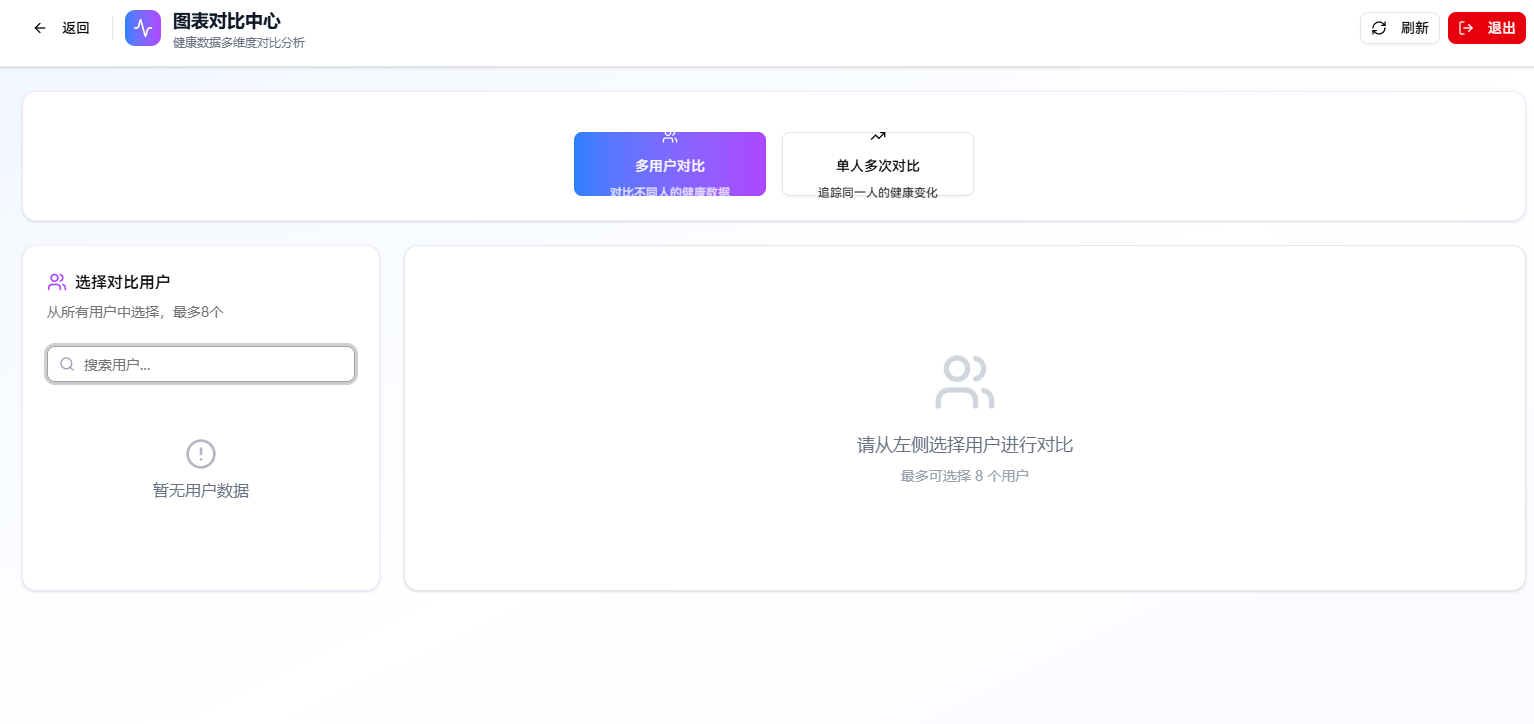
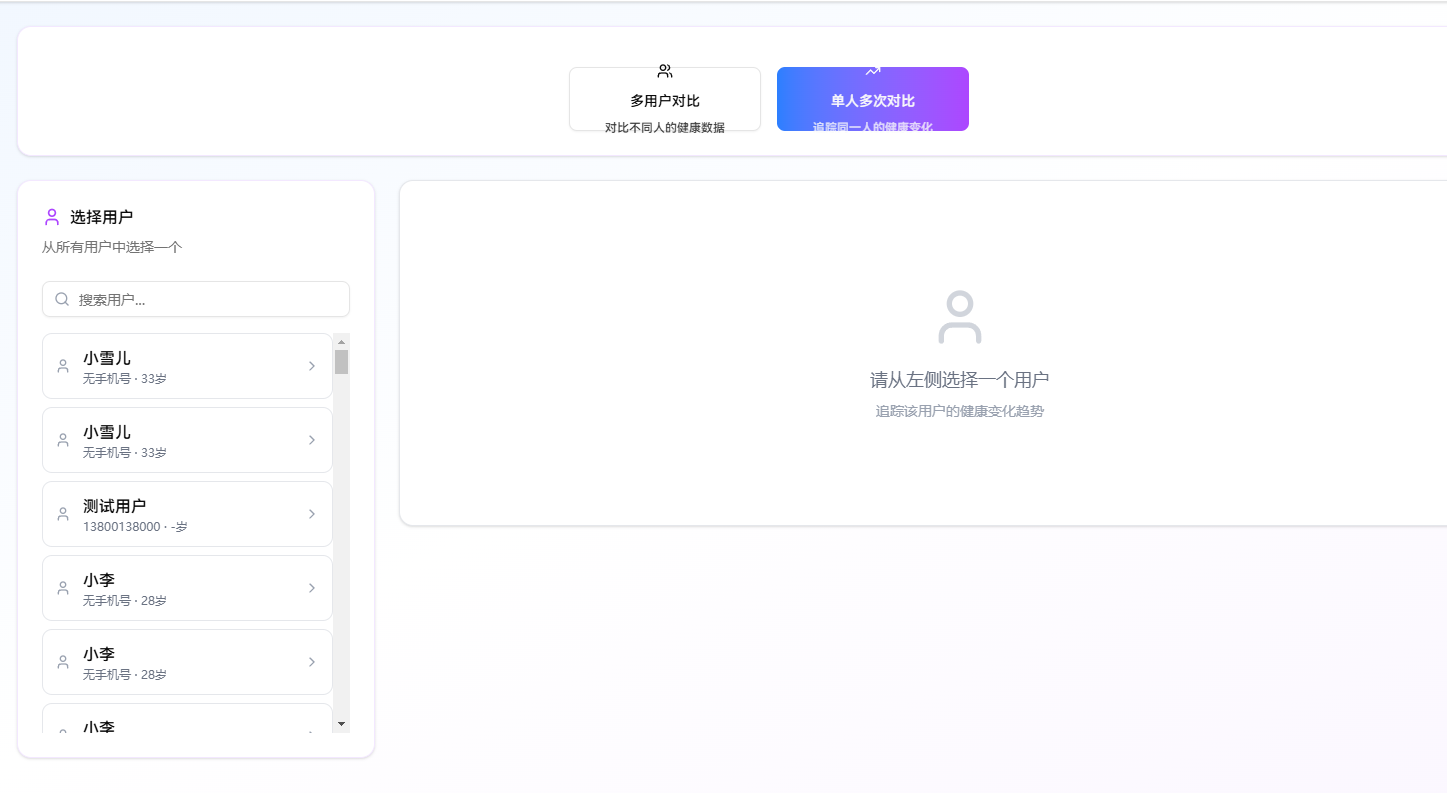
feat: 优化图表对比页面的用户区分标识和交互体验
1. 用户列表添加区分标识：显示"手机后4位·ID后4位"
2. 用户列表显示检测次数和最近检测时间
3. 记录列表优化：显示详细时间、健康分颜色标识、主要健康要素
4. 右侧空状态添加操作提示和快速选择按钮

diff --git a/src/app/admin/charts/page.tsx b/src/app/admin/charts/page.tsx
@@ -620,6 +620,11 @@ export default function ChartsComparePage() {
                           filteredUsers.map((u) => {
                             const isSelected = selectedUsers.includes(u.user.id);
                             const selectedIndex = selectedUsers.indexOf(u.user.id);
+                            // 生成用户区分标识：手机号后4位 + ID后4位
+                            const phoneSuffix = u.user.phone ? u.user.phone.slice(-4) : '无手机';
+                            const idSuffix = u.user.id.slice(-4);
+                            const recordCount = u.healthAnalysis?.length || 0;
+                            
                             return (
                               <div
                                 key={u.user.id}
@@ -631,7 +636,7 @@ export default function ChartsComparePage() {
                                 onClick={() => toggleUserSelection(u.user.id)}
                               >
                                 <div 
-                                  className={`w-4 h-4 rounded-full border-2 flex items-center justify-center ${
+                                  className={`w-4 h-4 rounded-full border-2 flex items-center justify-center flex-shrink-0 ${
                                     isSelected ? 'border-purple-500 bg-purple-500' : 'border-gray-300'
                                   }`}
                                 >
@@ -646,9 +651,14 @@ export default function ChartsComparePage() {
                                   />
                                 )}
                                 <div className="flex-1 min-w-0">
-                                  <p className="font-medium truncate">{u.user.name || '未命名'}</p>
+                                  <div className="flex items-center gap-2">
+                                    <p className="font-medium truncate">{u.user.name || '未命名'}</p>
+                                    <span className="text-xs text-gray-400 bg-gray-100 px-1.5 py-0.5 rounded flex-shrink-0">
+                                      {phoneSuffix}·{idSuffix}
+                                    </span>
+                                  </div>
                                   <p className="text-xs text-gray-500 truncate">
-                                    {u.user.phone || '无手机号'} · {u.user.age || '-'}岁
+                                    {u.user.age || '-'}岁{recordCount > 0 ? ` · ${recordCount}次检测` : ''}
                                   </p>
                                 </div>
                               </div>
@@ -696,22 +706,50 @@ export default function ChartsComparePage() {
                                 暂无用户数据
                               </div>
                             ) : (
-                              filteredUsers.map((u) => (
-                                <div
-                                  key={u.user.id}
-                                  className="flex items-center gap-3 p-3 rounded-lg border border-gray-200 hover:border-purple-200 hover:bg-gray-50 cursor-pointer transition-all"
-                                  onClick={() => selectSingleUser(u.user.id)}
-                                >
-                                  <User className="h-4 w-4 text-gray-400" />
-                                  <div className="flex-1 min-w-0">
-                                    <p className="font-medium truncate">{u.user.name || '未命名'}</p>
-                                    <p className="text-xs text-gray-500 truncate">
-                                      {u.user.phone || '无手机号'} · {u.user.age || '-'}岁
-                                    </p>
+                              filteredUsers.map((u) => {
+                                // 生成用户区分标识：手机号后4位 + ID后4位
+                                const phoneSuffix = u.user.phone ? u.user.phone.slice(-4) : '无手机';
+                                const idSuffix = u.user.id.slice(-4);
+                                const recordCount = u.healthAnalysis?.length || 0;
+                                const latestAnalysis = u.healthAnalysis?.[0];
+                                const latestDate = latestAnalysis?.analyzedAt 
+                                  ? new Date(latestAnalysis.analyzedAt).toLocaleDateString('zh-CN', { month: 'short', day: 'numeric' })
+                                  : null;
+                                
+                                return (
+                                  <div
+                                    key={u.user.id}
+                                    className="flex items-center gap-3 p-3 rounded-lg border border-gray-200 hover:border-purple-200 hover:bg-gray-50 cursor-pointer transition-all"
+                                    onClick={() => selectSingleUser(u.user.id)}
+                                  >
+                                    <User className="h-4 w-4 text-gray-400 flex-shrink-0" />
+                                    <div className="flex-1 min-w-0">
+                                      <div className="flex items-center gap-2">
+                                        <p className="font-medium truncate">{u.user.name || '未命名'}</p>
+                                        <span className="text-xs text-gray-400 bg-gray-100 px-1.5 py-0.5 rounded flex-shrink-0">
+                                          {phoneSuffix}·{idSuffix}
+                                        </span>
+                                      </div>
+                                      <div className="flex items-center gap-2 text-xs text-gray-500">
+                                        <span>{u.user.age || '-'}岁</span>
+                                        {recordCount > 0 && (
+                                          <>
+                                            <span className="text-gray-300">|</span>
+                                            <span className="text-purple-600 font-medium">{recordCount}次检测</span>
+                                          </>
+                                        )}
+                                        {latestDate && (
+                                          <>
+                                            <span className="text-gray-300">|</span>
+                                            <span>最近: {latestDate}</span>
+                                          </>
+                                        )}
+                                      </div>
+                                    </div>
+                                    <ChevronRight className="h-4 w-4 text-gray-400 flex-shrink-0" />
                                   </div>
-                                  <ChevronRight className="h-4 w-4 text-gray-400" />
-                                </div>
-                              ))
+                                );
+                              })
                             )}
                           </div>
                         </>
@@ -721,9 +759,24 @@ export default function ChartsComparePage() {
                           <div className="mb-4 p-3 bg-purple-50 rounded-lg">
                             <div className="flex items-center justify-between">
                               <div>
-                                <p className="font-medium">{getUserName(selectedSingleUser)}</p>
-                                <p className="text-xs text-gray-500">
-                                  共 {singleUserData?.healthAnalysis?.length || 0} 条检测记录
+                                <div className="flex items-center gap-2">
+                                  <p className="font-medium">{getUserName(selectedSingleUser)}</p>
+                                  {(() => {
+                                    const user = users.find(u => u.user.id === selectedSingleUser)?.user;
+                                    if (user) {
+                                      const phoneSuffix = user.phone ? user.phone.slice(-4) : '无手机';
+                                      const idSuffix = user.id.slice(-4);
+                                      return (
+                                        <span className="text-xs text-gray-500 bg-white px-1.5 py-0.5 rounded">
+                                          {phoneSuffix}·{idSuffix}
+                                        </span>
+                                      );
+                                    }
+                                    return null;
+                                  })()}
+                                </div>
+                                <p className="text-xs text-gray-500 mt-1">
+                                  共 {singleUserData?.healthAnalysis?.length || 0} 条检测记录 · 请选择要对比的记录
                                 </p>
                               </div>
                               <Button 
@@ -769,6 +822,12 @@ export default function ChartsComparePage() {
                               singleUserData.healthAnalysis.map((analysis: any, index: number) => {
                                 const isSelected = selectedRecords.includes(analysis.id);
                                 const selectedIndex = selectedRecords.indexOf(analysis.id);
+                                const healthScore = analysis.overallHealth ?? 0;
+                                const scoreColor = healthScore >= 80 ? 'text-green-600' : healthScore >= 60 ? 'text-yellow-600' : healthScore >= 40 ? 'text-orange-600' : 'text-red-600';
+                                const analysisDate = new Date(analysis.analyzedAt);
+                                const dateStr = analysisDate.toLocaleDateString('zh-CN', { month: 'short', day: 'numeric' });
+                                const timeStr = analysisDate.toLocaleTimeString('zh-CN', { hour: '2-digit', minute: '2-digit' });
+                                
                                 return (
                                   <div
                                     key={analysis.id}
@@ -780,7 +839,7 @@ export default function ChartsComparePage() {
                                     onClick={() => toggleRecordSelection(analysis.id)}
                                   >
                                     <div 
-                                      className={`w-4 h-4 rounded-full border-2 flex items-center justify-center ${
+                                      className={`w-4 h-4 rounded-full border-2 flex items-center justify-center flex-shrink-0 ${
                                         isSelected ? 'border-purple-500 bg-purple-500' : 'border-gray-300'
                                       }`}
                                     >
@@ -793,18 +852,24 @@ export default function ChartsComparePage() {
                                       />
                                     )}
                                     <div className="flex-1 min-w-0">
-                                      <div className="flex items-center gap-2">
+                                      <div className="flex items-center gap-2 flex-wrap">
                                         <Calendar className="h-3 w-3 text-gray-400" />
                                         <p className="text-sm font-medium">
-                                          {new Date(analysis.analyzedAt).toLocaleDateString('zh-CN')}
+                                          {dateStr} {timeStr}
                                         </p>
                                         {index === 0 && (
-                                          <Badge variant="secondary" className="text-xs">最新</Badge>
+                                          <Badge variant="secondary" className="text-xs bg-green-100 text-green-700">最新</Badge>
                                         )}
                                       </div>
-                                      <p className="text-xs text-gray-500">
-                                        健康分: {analysis.overallHealth ?? '-'}
-                                      </p>
+                                      <div className="flex items-center gap-3 mt-1">
+                                        <span className={`text-sm font-semibold ${scoreColor}`}>
+                                          健康分: {healthScore}
+                                        </span>
+                                        {/* 显示主要健康要素 */}
+                                        <span className="text-xs text-gray-400">
+                                          气血{analysis.qiAndBlood ?? '-'} 循环{analysis.circulation ?? '-'}
+                                        </span>
+                                      </div>
                                     </div>
                                   </div>
                                 );
@@ -1090,6 +1155,9 @@ export default function ChartsComparePage() {
                         <User className="h-16 w-16 mx-auto text-gray-300 mb-4" />
                         <p className="text-gray-500 text-lg">请从左侧选择一个用户</p>
                         <p className="text-gray-400 text-sm mt-2">追踪该用户的健康变化趋势</p>
+                        <div className="mt-4 text-xs text-gray-400 bg-gray-50 rounded-lg p-3 inline-block">
+                          <p>💡 提示：同名用户可通过"手机后4位·ID后4位"区分</p>
+                        </div>
                       </CardContent>
                     </Card>
                   ) : selectedRecords.length < 2 ? (
@@ -1098,6 +1166,16 @@ export default function ChartsComparePage() {
                         <Calendar className="h-16 w-16 mx-auto text-gray-300 mb-4" />
                         <p className="text-gray-500 text-lg">请至少选择2条检测记录</p>
                         <p className="text-gray-400 text-sm mt-2">对比不同时间的健康数据变化</p>
+                        <div className="mt-4 flex justify-center gap-2">
+                          <Button variant="outline" size="sm" onClick={() => {
+                            // 获取当前用户信息，设置到selectedSingleUser
+                            if (singleUserData?.healthAnalysis?.length) {
+                              setSelectedRecords(singleUserData.healthAnalysis.slice(0, 2).map((a: any) => a.id));
+                            }
+                          }}>
+                            快速选择最近2次
+                          </Button>
+                        </div>
                       </CardContent>
                     </Card>
                   ) : (
